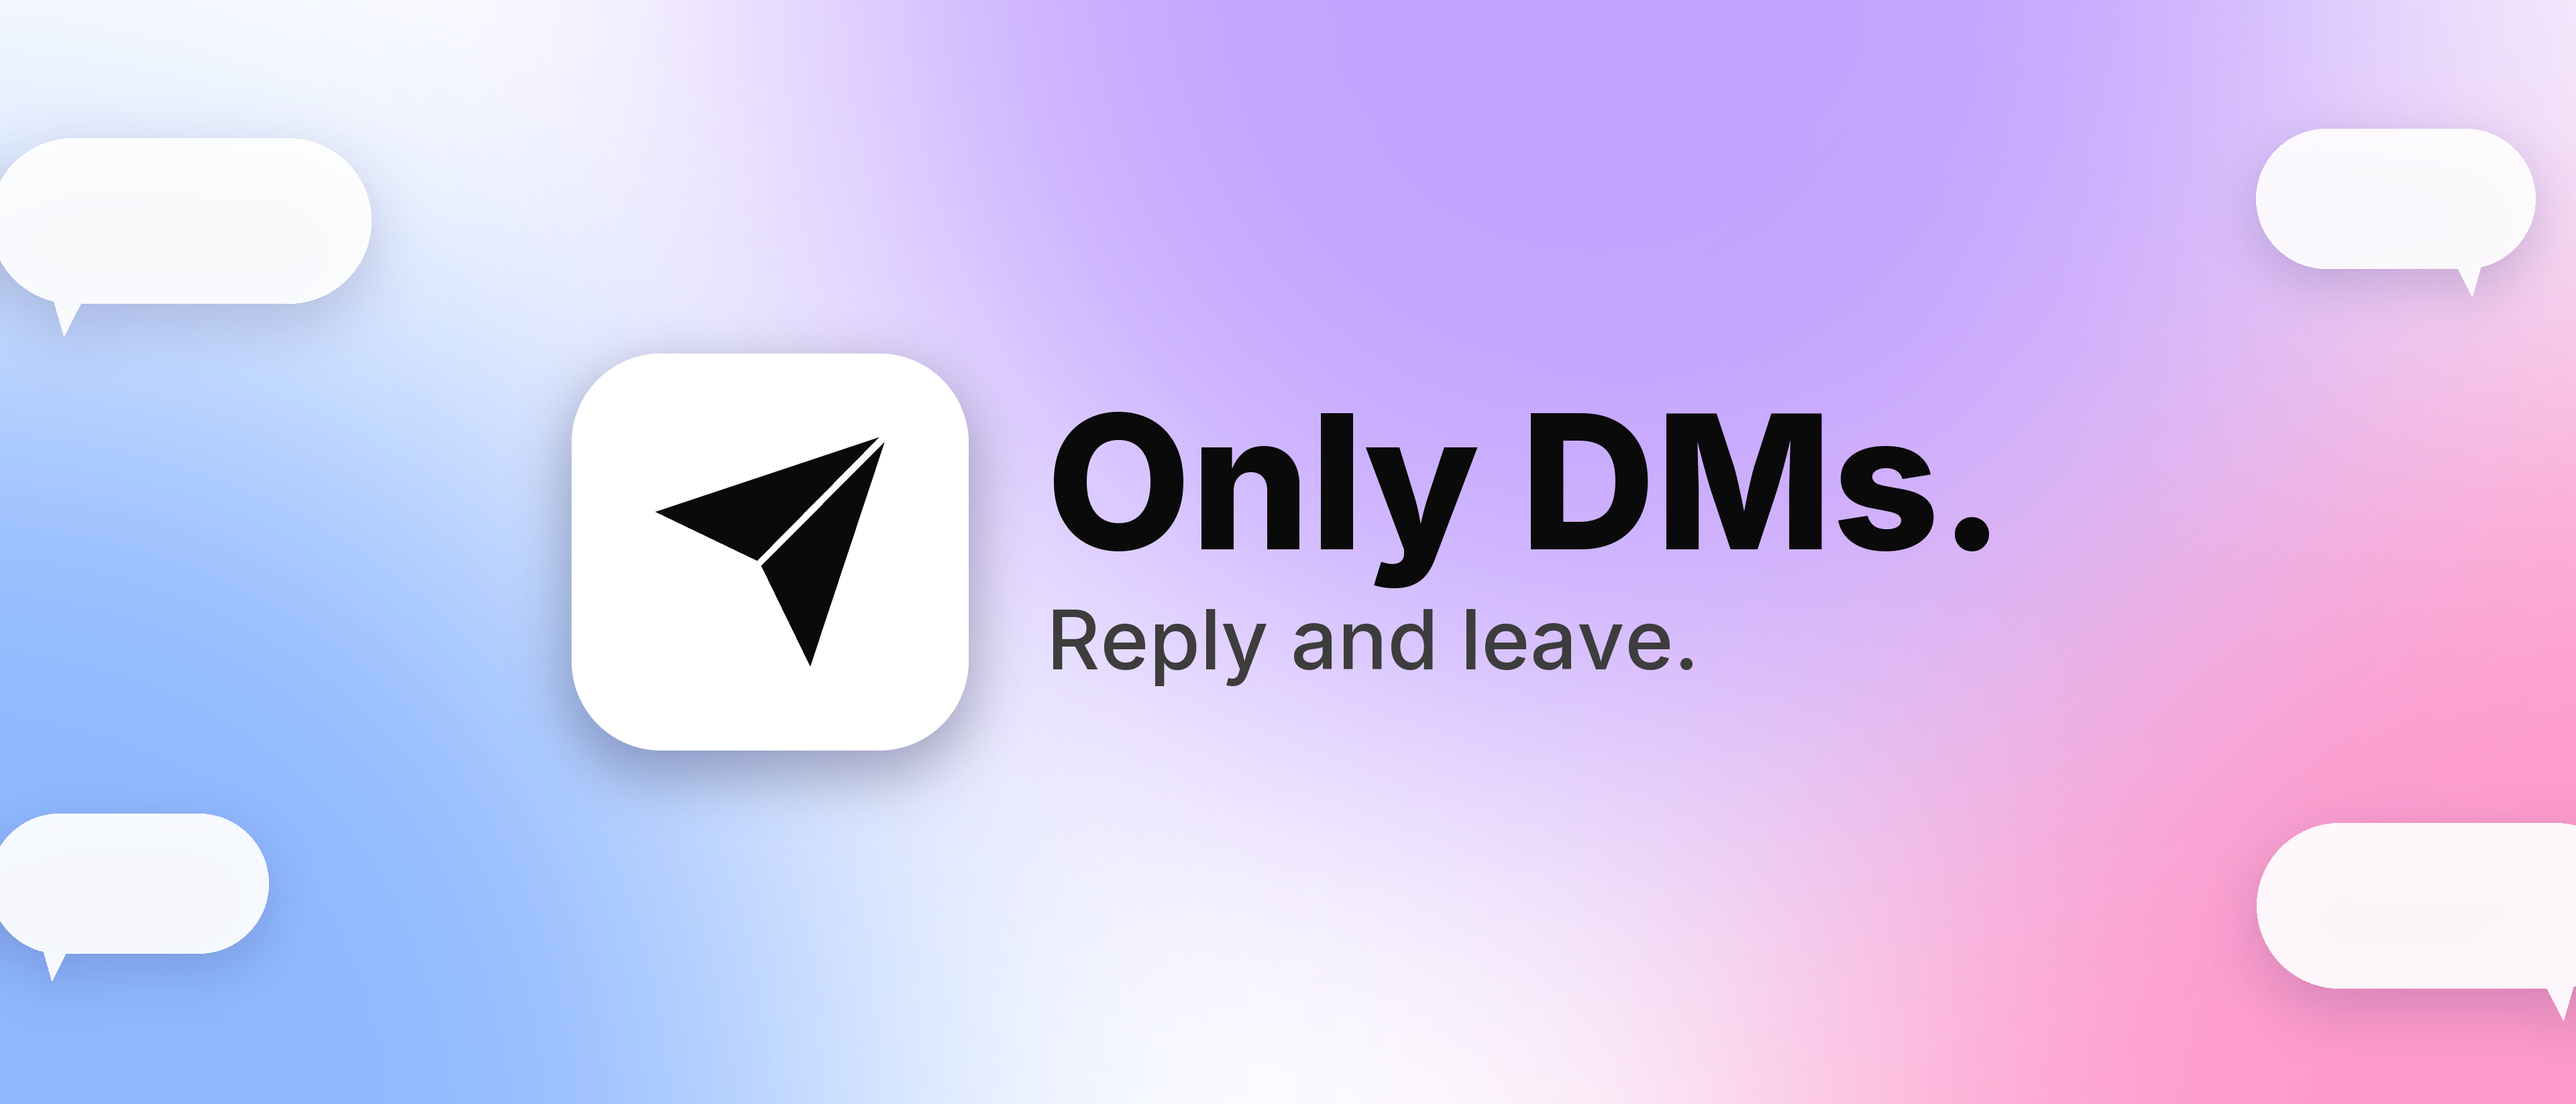
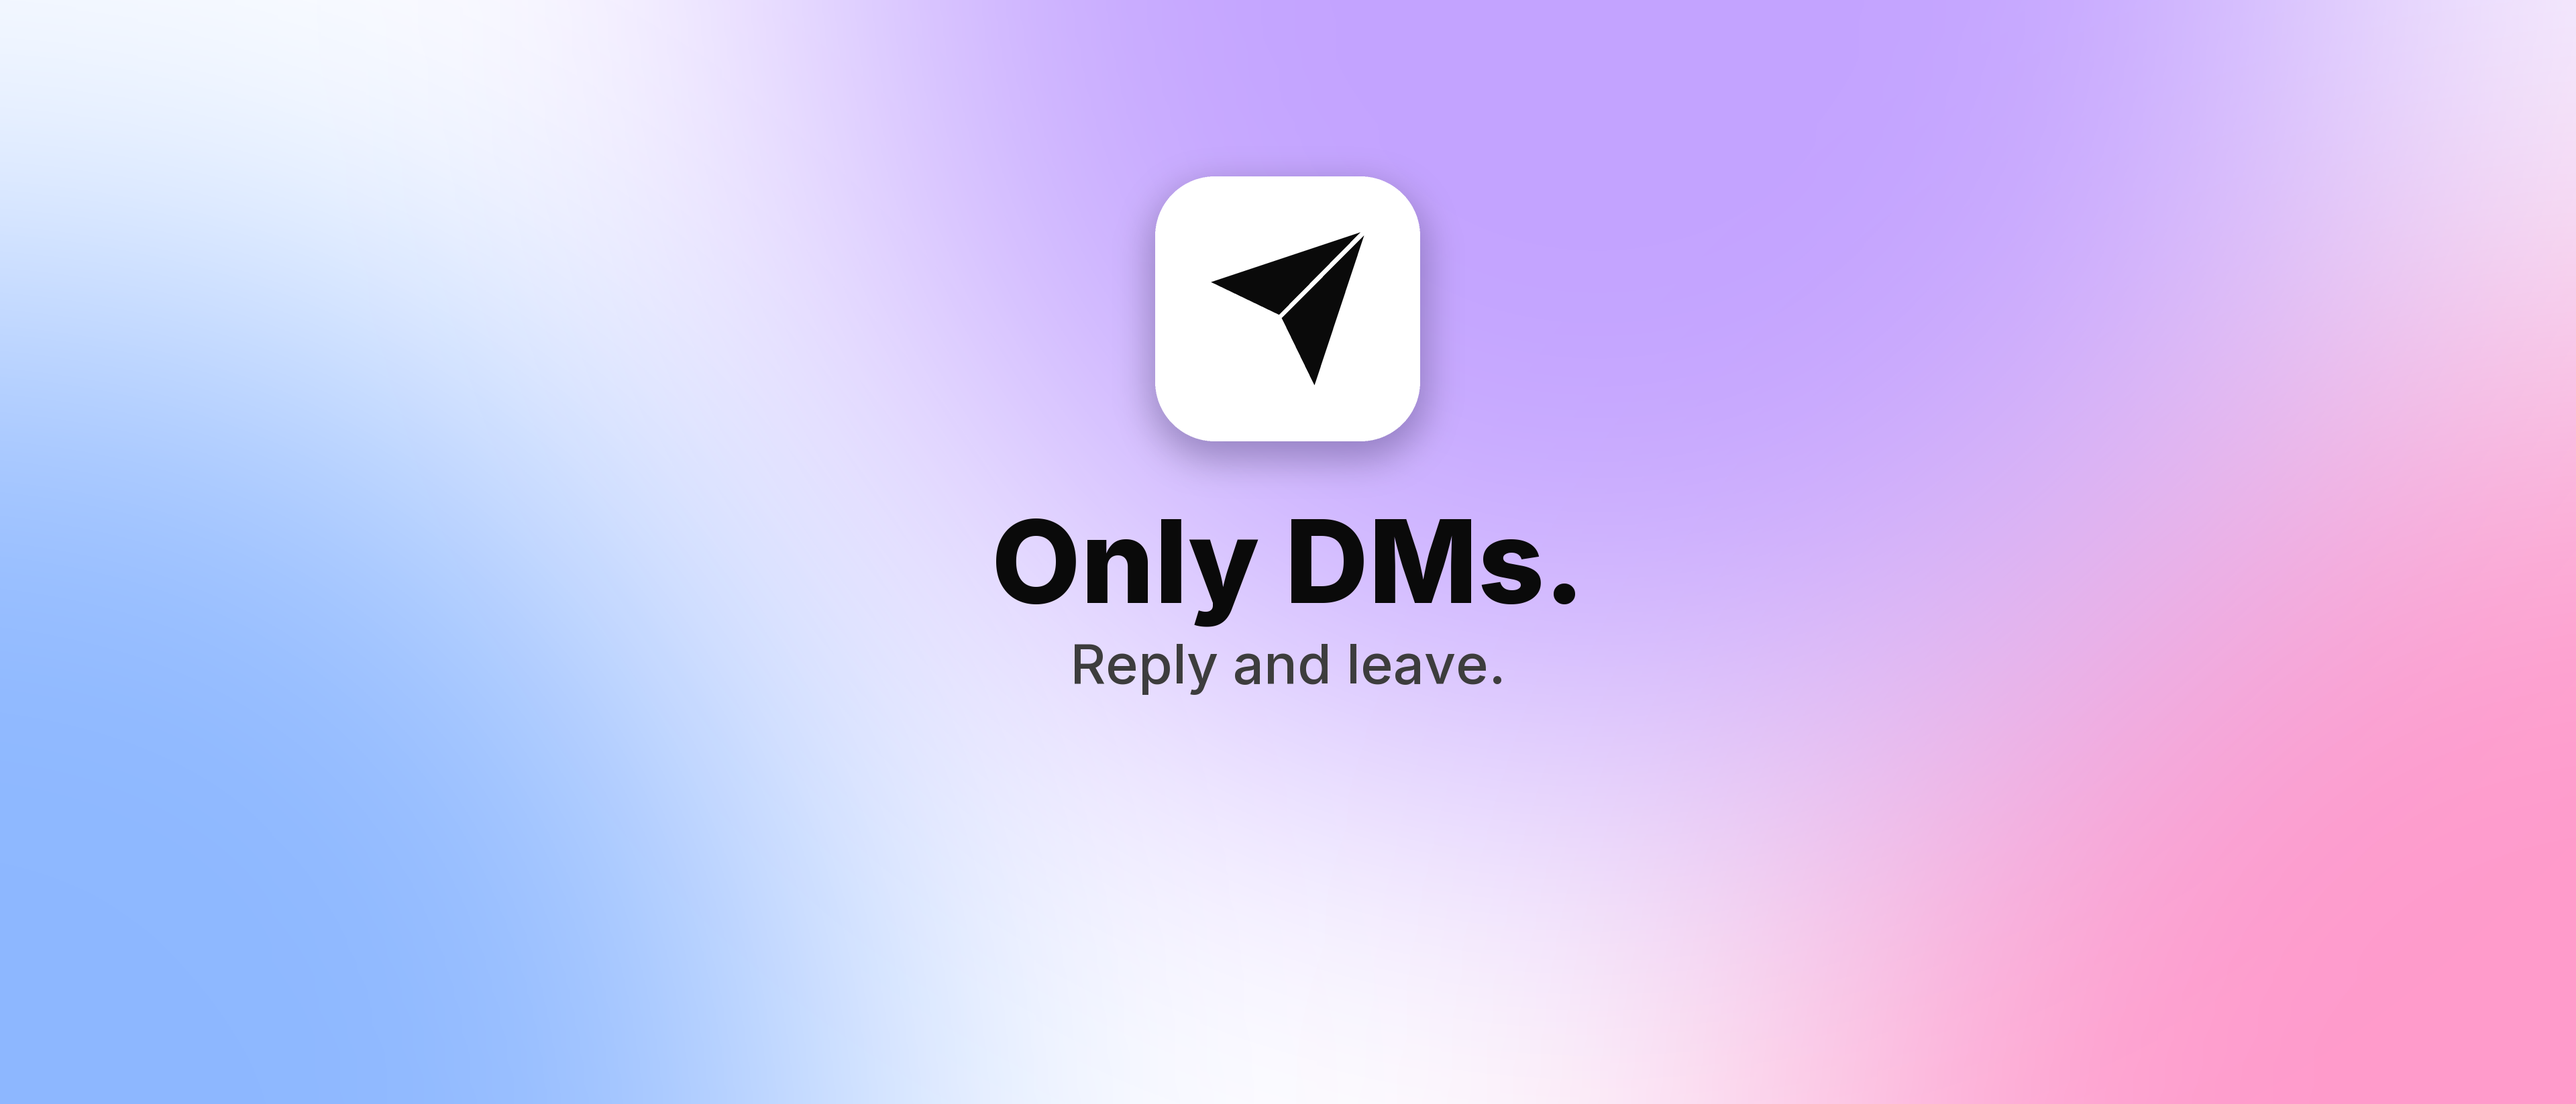
iPhone only

diff --git a/scripts/make-store-assets.py b/scripts/make-store-assets.py
@@ -20,8 +20,8 @@ def white_tile():
 
 
 ICON = white_tile()
-# name, width, height
-SIZES = [('universal-5244x2950', 5244, 2950), ('header-3840x1646', 3840, 1646), ('search-3840x2560', 3840, 2560), ('search-1920x1280', 1920, 1280)]
+# name, width, height, kind
+SIZES = [('header-5244x2950', 5244, 2950, 'header'), ('header-3840x1646', 3840, 1646, 'header'), ('search-5244x2950', 5244, 2950, 'search'), ('search-3840x2560', 3840, 2560, 'search'), ('search-1920x1280', 1920, 1280, 'search')]
 
 
 def glow(w, h):
@@ -43,54 +43,64 @@ def squircle(img, size, radius_ratio=0.225):
     return out
 
 
-def bubble(canvas, cx, cy, bw, bh, side):
-    """An empty chat bubble: just shape, so there is no text to localise."""
+def pill(canvas, cx, cy, text, font, pad):
+    d = ImageDraw.Draw(canvas)
+    tw = d.textlength(text, font=font)
+    w, h = tw + pad * 2, font.size + pad * 1.1
     layer = Image.new('RGBA', canvas.size, (0, 0, 0, 0))
-    d = ImageDraw.Draw(layer)
-    box = [cx - bw / 2, cy - bh / 2, cx + bw / 2, cy + bh / 2]
-    d.rounded_rectangle(box, radius=bh / 2, fill=(255, 255, 255, 235))
-    tail_x = box[0] + bh * 0.5 if side == 'l' else box[2] - bh * 0.5
-    d.polygon([(tail_x - bh * 0.18, box[3] - bh * 0.25), (tail_x + bh * 0.18, box[3] - bh * 0.25), (tail_x + (-1 if side == 'l' else 1) * bh * 0.05, box[3] + bh * 0.2)], fill=(255, 255, 255, 235))
-    shadow = layer.filter(ImageFilter.GaussianBlur(bh * 0.18))
+    ImageDraw.Draw(layer).rounded_rectangle([cx - w / 2, cy - h / 2, cx + w / 2, cy + h / 2], radius=h / 2, fill=(255, 255, 255, 240))
     sh = Image.new('RGBA', canvas.size, (60, 50, 110, 0))
-    sh.putalpha(shadow.split()[3].point(lambda v: int(v * 0.25)))
-    canvas.alpha_composite(sh, (0, int(bh * 0.12)))
+    sh.putalpha(layer.split()[3].filter(ImageFilter.GaussianBlur(h * 0.25)).point(lambda v: int(v * 0.22)))
+    canvas.alpha_composite(sh, (0, int(h * 0.12)))
     canvas.alpha_composite(layer)
+    ImageDraw.Draw(canvas).text((cx - tw / 2, cy - font.size * 0.58), text, font=font, fill=(10, 10, 10))
+    return w
 
 
-def make(w, h):
+def make(w, h, kind):
+    """kind 'header': one narrow, centred stack (iPhone crops the header to its middle, and the app icon and
+    name sit over the bottom-left, so nothing important goes near the sides or the lower third).
+    kind 'search': the same stack plus three benefit pills; the 3:2 image is shown whole."""
     canvas = glow(w, h).convert('RGBA')
     m = min(w, h)
-    g = 0.80 if w / h < 2 else 1.0  # 3:2 crops are narrower: shrink the focal group so it stays inside the safe area
-    # Soft empty chat bubbles at the sides, away from the centred focal group.
-    for (fx, fy, bw, bh, side) in [(0.07, 0.20, 0.30, 0.13, 'l'), (0.05, 0.80, 0.22, 0.11, 'l'), (0.93, 0.18, 0.22, 0.11, 'r'), (0.95, 0.82, 0.30, 0.13, 'r')]:
-        bubble(canvas, fx * w, fy * h, bw * m * 1.15, bh * m * 1.15, side)
-    tile = int(m * 0.36 * g)
-    f1 = ImageFont.truetype(FONT_B, int(m * 0.17 * g))
-    f2 = ImageFont.truetype(FONT_M, int(m * 0.075 * g))
-    d = ImageDraw.Draw(canvas)
-    t1, t2 = 'Only DMs.', 'Reply and leave.'
-    tw = max(d.textlength(t1, font=f1), d.textlength(t2, font=f2))
-    gap = int(m * 0.07 * g)
-    total = tile + gap + tw
-    x0 = (w - total) / 2
-    y0 = (h - tile) / 2
-    # Icon tile with a soft shadow.
+    cx = w / 2
+    if kind == 'header':
+        tile_s, f1_s, f2_s, top = 0.24, 0.105, 0.05, 0.16
+    else:
+        tile_s, f1_s, f2_s, top = 0.25, 0.13, 0.06, 0.15
+    tile = int(m * tile_s)
+    f1 = ImageFont.truetype(FONT_B, int(m * f1_s))
+    f2 = ImageFont.truetype(FONT_M, int(m * f2_s))
+    y = h * top
     ic = squircle(ICON, tile)
     sh = Image.new('RGBA', canvas.size, (0, 0, 0, 0))
-    ImageDraw.Draw(sh).rounded_rectangle([x0, y0 + tile * 0.05, x0 + tile, y0 + tile * 1.05], radius=int(tile * 0.225), fill=(40, 30, 90, 90))
+    ImageDraw.Draw(sh).rounded_rectangle([cx - tile / 2, y + tile * 0.05, cx + tile / 2, y + tile * 1.05], radius=int(tile * 0.225), fill=(40, 30, 90, 90))
     canvas.alpha_composite(sh.filter(ImageFilter.GaussianBlur(tile * 0.07)))
-    canvas.alpha_composite(ic, (int(x0), int(y0)))
+    canvas.alpha_composite(ic, (int(cx - tile / 2), int(y)))
     d = ImageDraw.Draw(canvas)
-    tx = x0 + tile + gap
-    block = int(m * 0.17 * g) + int(m * 0.075 * g) + int(m * 0.03 * g)
-    ty = h / 2 - block / 2 - m * 0.03 * g
-    d.text((tx, ty), t1, font=f1, fill=(10, 10, 10))
-    d.text((tx, ty + m * 0.17 * g * 1.18), t2, font=f2, fill=(61, 61, 61))
+    y += tile + m * 0.045
+    t1, t2 = 'Only DMs.', 'Reply and leave.'
+    d.text((cx - d.textlength(t1, font=f1) / 2, y), t1, font=f1, fill=(10, 10, 10))
+    y += f1.size * 1.2
+    d.text((cx - d.textlength(t2, font=f2) / 2, y), t2, font=f2, fill=(61, 61, 61))
+    if kind == 'search':
+        y += f2.size * 1.9
+        pf = ImageFont.truetype(FONT_B, int(m * 0.05))
+        labels = ['No feed', 'No Reels', 'No Explore']
+        pad = m * 0.035
+        widths = [d.textlength(t, font=pf) + pad * 2 for t in labels]
+        gap = m * 0.03
+        x = cx - (sum(widths) + gap * 2) / 2
+        for t, pw in zip(labels, widths):
+            pill(canvas, x + pw / 2, y + pf.size * 0.6, t, pf, pad)
+            x += pw + gap
     return canvas.convert('RGB')
 
 
 os.makedirs(OUT, exist_ok=True)
-for name, w, h in SIZES:
-    make(w, h).save(f'{OUT}/{name}.png', optimize=True)
+for f in os.listdir(OUT):
+    if f.endswith('.png'):
+        os.remove(f'{OUT}/{f}')
+for name, w, h, kind in SIZES:
+    make(w, h, kind).save(f'{OUT}/{name}.png', optimize=True)
     print(name)
